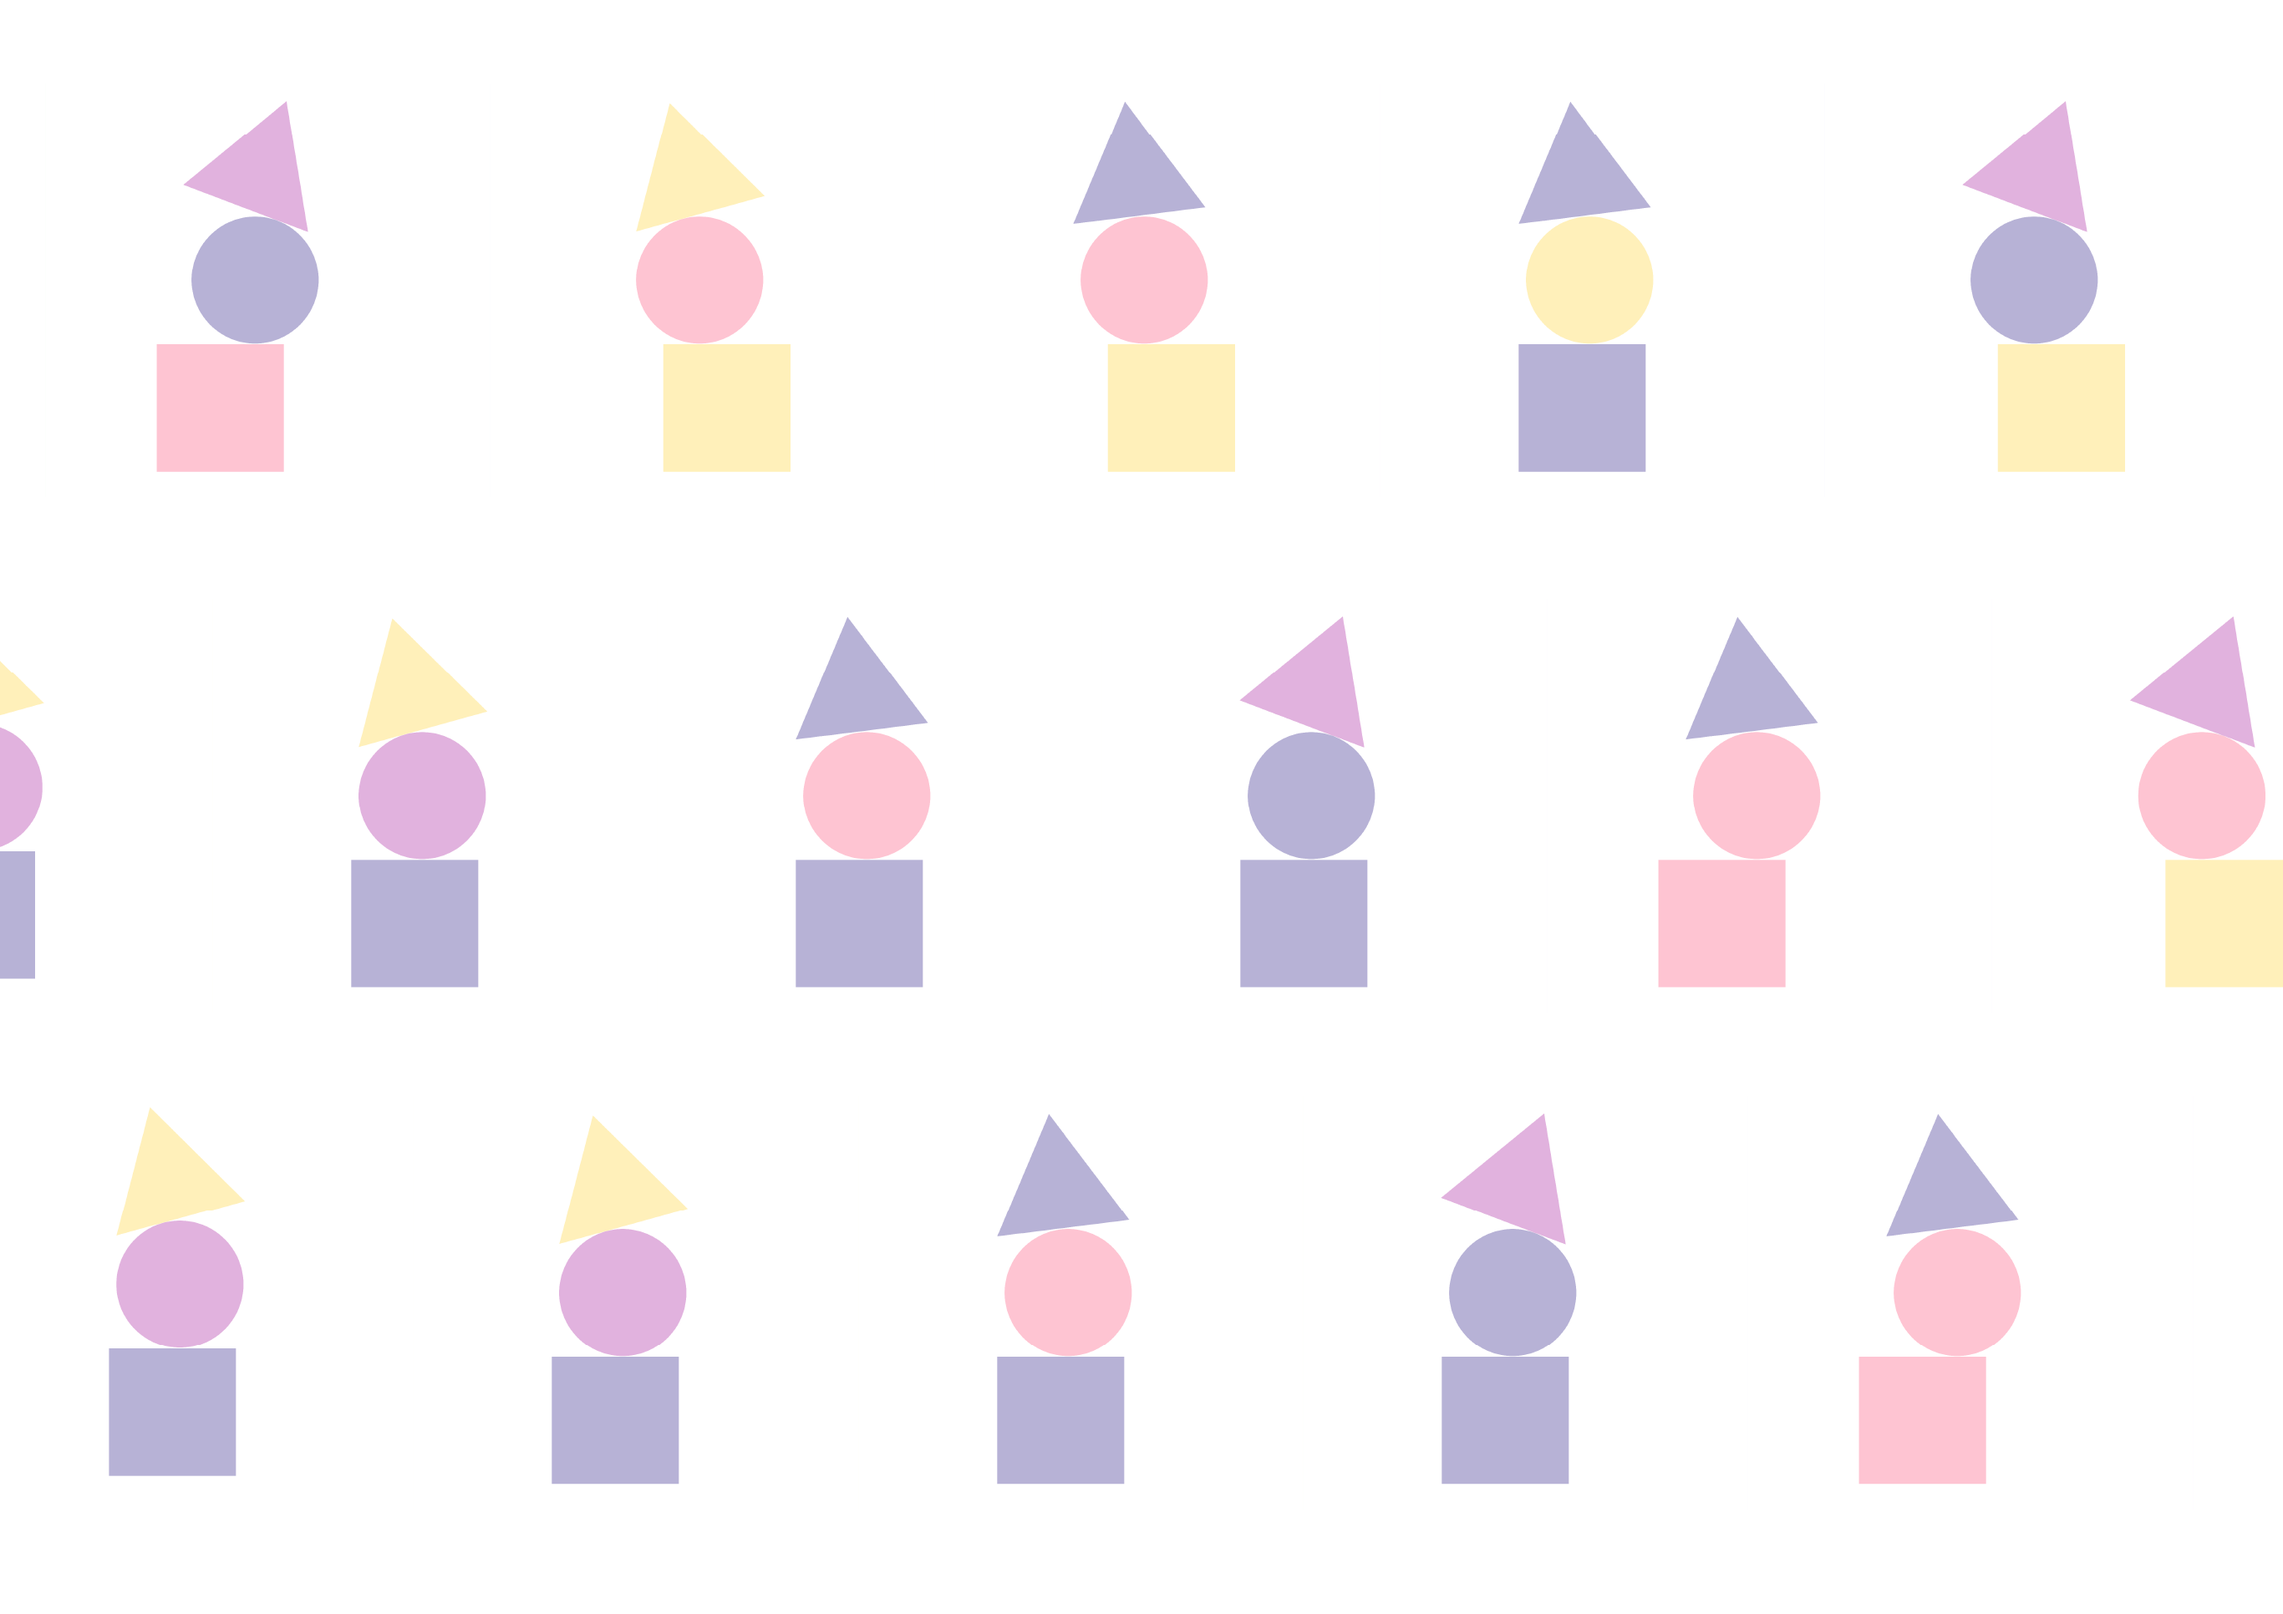
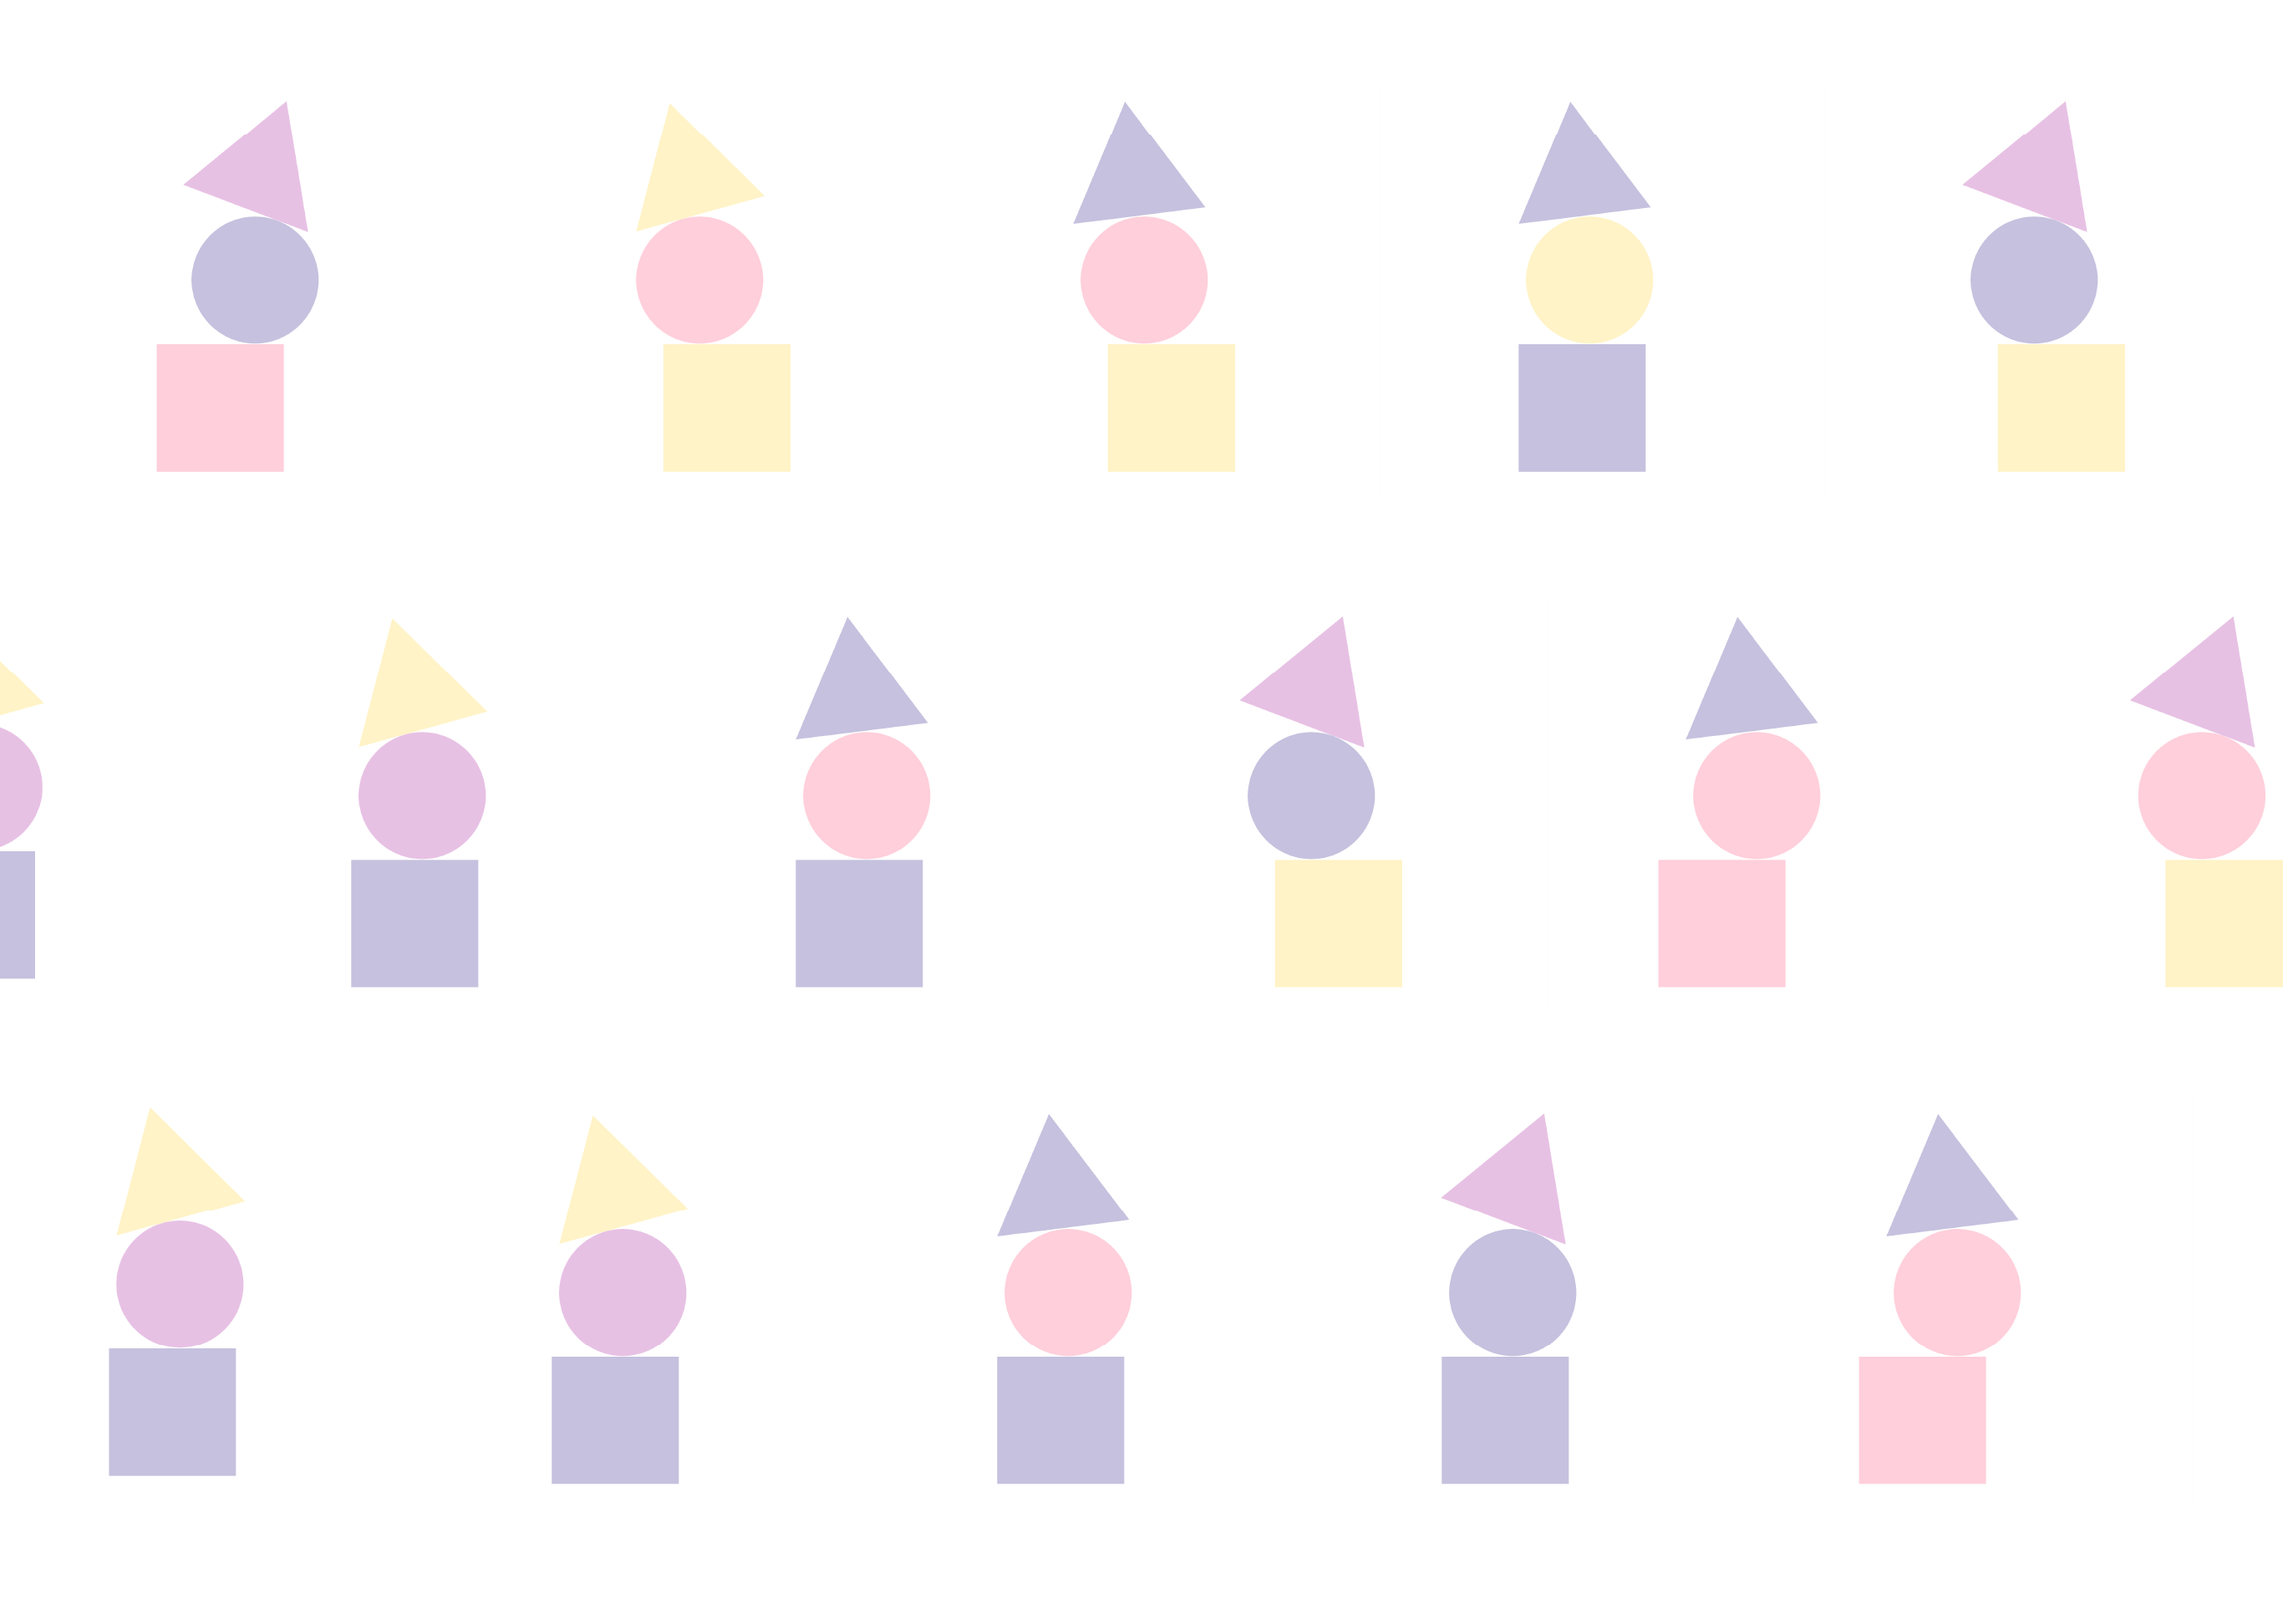
adjust_background_image

Changed region(s): [[0.5289, 0.528, 0.6223, 0.6211]]

diff --git a/hashlips_nft_minting_dapp-1.0.1/public/config/theme.css b/hashlips_nft_minting_dapp-1.0.1/public/config/theme.css
@@ -1,8 +1,8 @@
 :root {
-  --primary: #2b151a0d;
+  --primary: #FECD1A;
   --primary-text: #1a1a1a;
   --secondary: #fd3a67;
   --secondary-text: #ffffff;
   --accent: #505050;
-  --accent-text: #e3e3e3;
+  --accent-text: #f4f4f4;
 }
